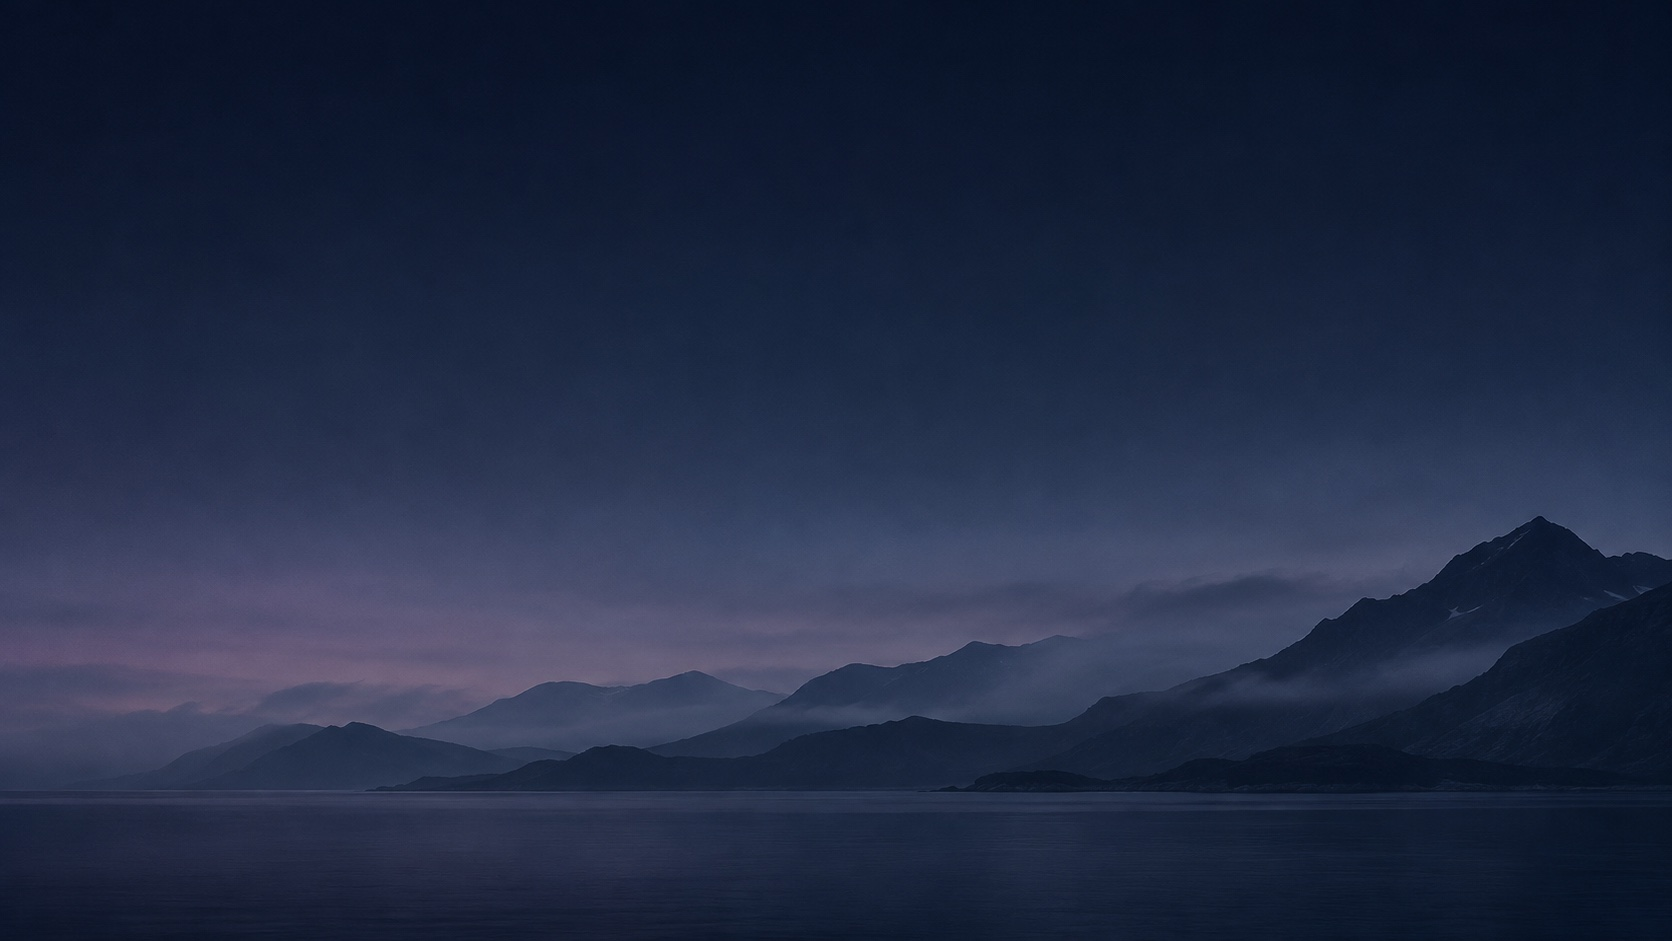
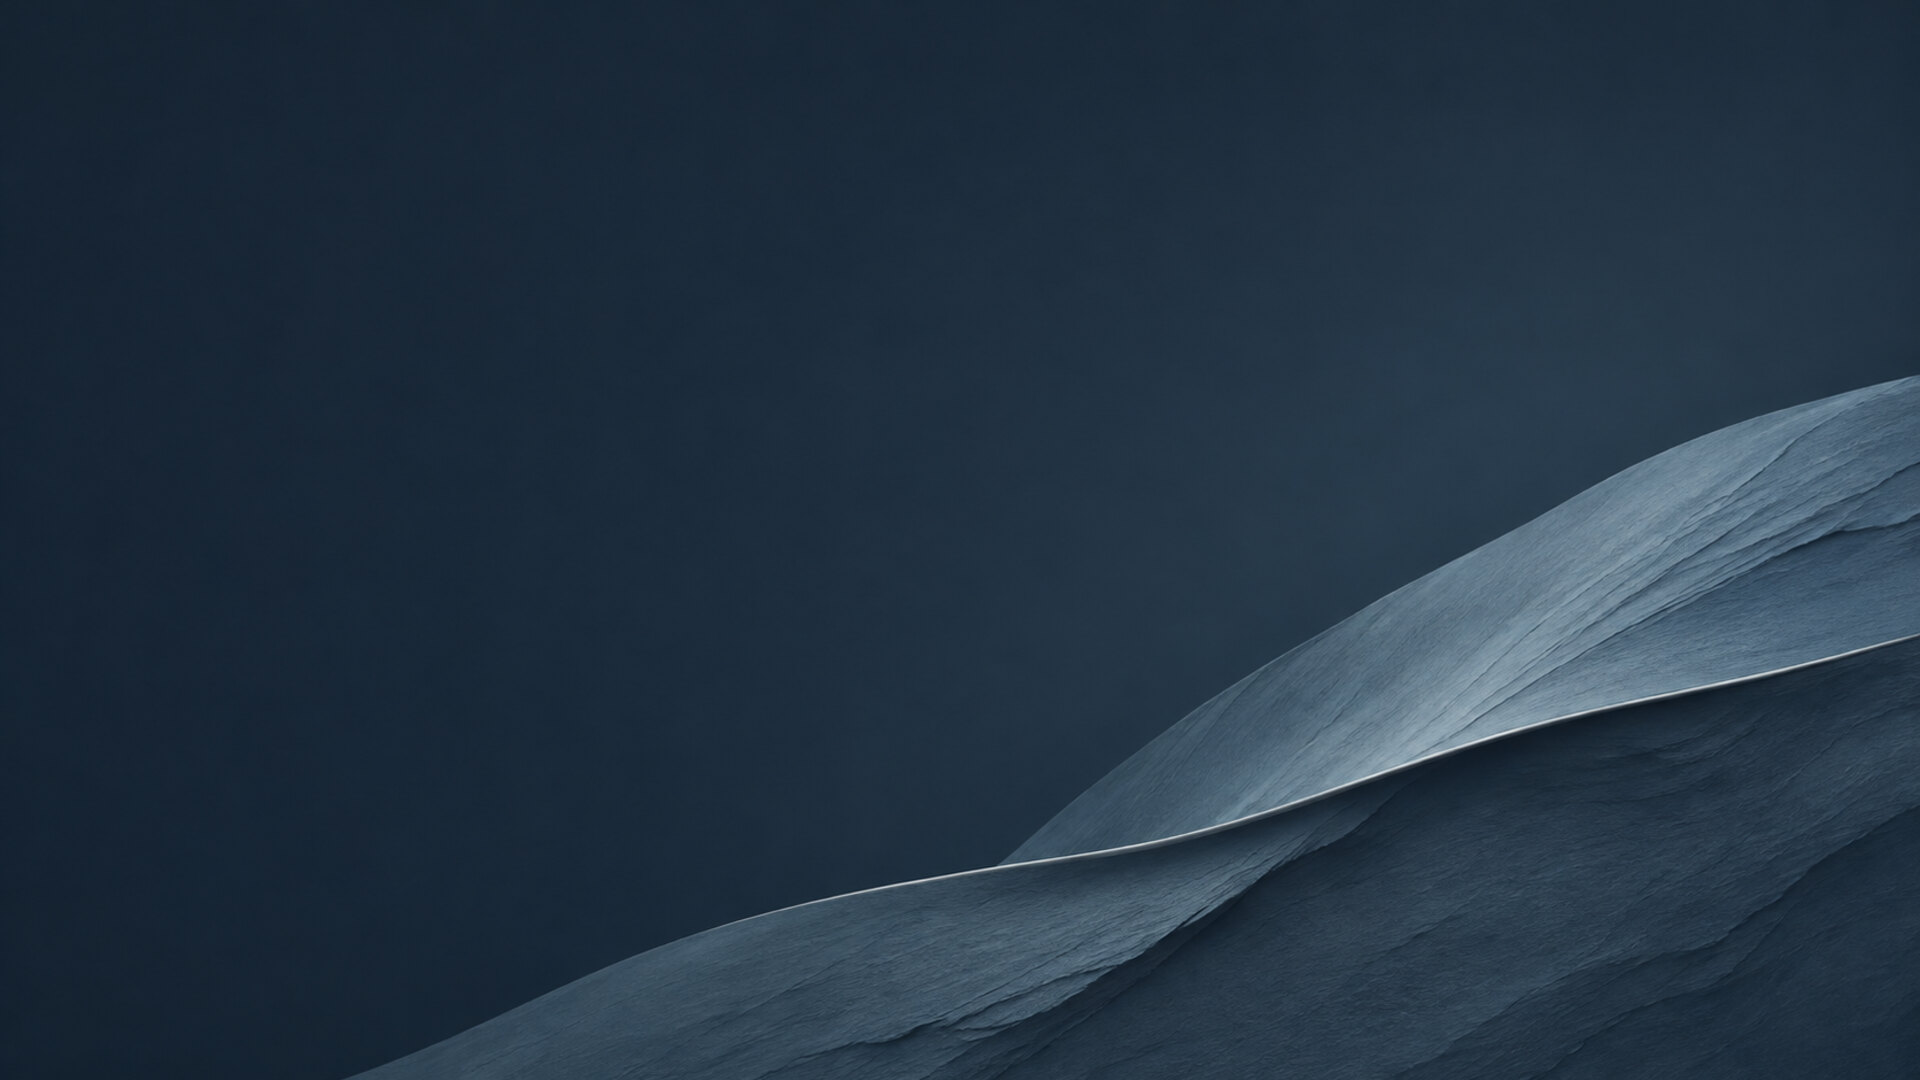
feat(desktop): voxl is the default viewer on 6080 (the shootout winner); KasmVNC stays as the screen and the fallback viewer on 6082

diff --git a/NOTES.md b/NOTES.md
@@ -989,3 +989,9 @@ everything at once. [ADR 0055](docs/adr/0055-release-terminal-machine-records.md
 The preview desktop uses a compressed static blue-hour wallpaper with a fallback solid fill when X cannot paint the image.
 The top panel, dock, Openbox decorations, and larger terminal type share the wallpaper's slate-blue palette.
 The existing Host 12 preview applied the theme through its authenticated guest interface without rebooting the desktop.
+
+## 2026-11-21 - Slate desktop preview
+
+The desktop image packages a 1920 by 1080 static JPEG with the composition weighted to the lower right so windows and controls stay readable.
+On the Host 12 preview, the wallpaper and panel configuration were applied in place and the Chrome stream continued playing.
+The live X server reported the 40-pixel task bar and 60-pixel dock mapped.
